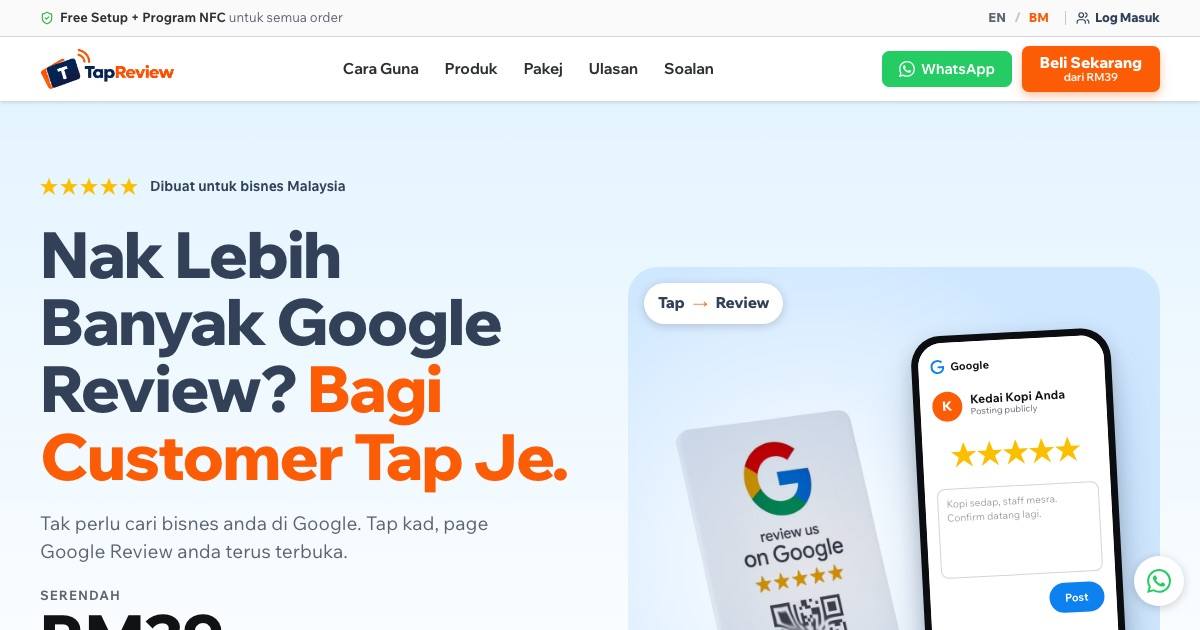
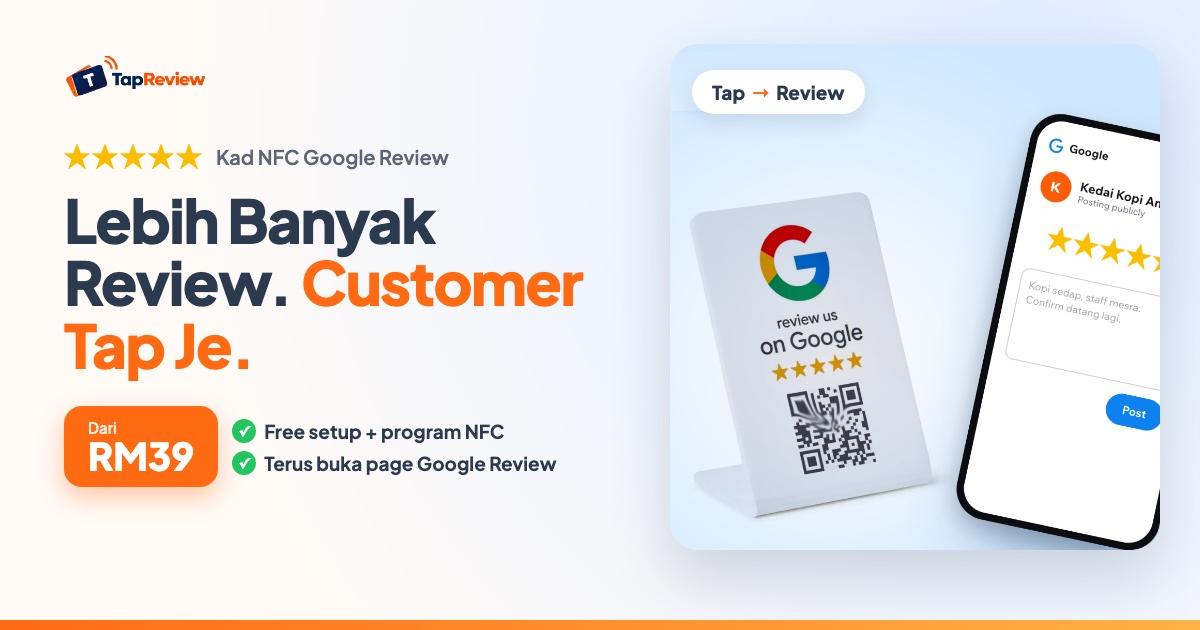
Redesign link preview image

diff --git a/index.html b/index.html
@@ -9,8 +9,8 @@
   <meta property="og:url" content="https://tapreview-f04.pages.dev/">
   <meta property="og:title" content="TapReview – Nak Lebih Banyak Google Review? Bagi Customer Tap Je.">
   <meta property="og:description" content="Kad NFC yang buka page Google Review bisnes anda terus. Dari RM39, free setup + program NFC.">
-  <meta property="og:image" content="https://tapreview-f04.pages.dev/og-image.jpg">
-  <meta property="og:image:secure_url" content="https://tapreview-f04.pages.dev/og-image.jpg">
+  <meta property="og:image" content="https://tapreview-f04.pages.dev/og-image.jpg?v=2">
+  <meta property="og:image:secure_url" content="https://tapreview-f04.pages.dev/og-image.jpg?v=2">
   <meta property="og:image:type" content="image/jpeg">
   <meta property="og:image:width" content="1200">
   <meta property="og:image:height" content="630">
@@ -19,7 +19,7 @@
   <meta name="twitter:card" content="summary_large_image">
   <meta name="twitter:title" content="TapReview – Nak Lebih Banyak Google Review? Bagi Customer Tap Je.">
   <meta name="twitter:description" content="Kad NFC yang buka page Google Review bisnes anda terus. Dari RM39.">
-  <meta name="twitter:image" content="https://tapreview-f04.pages.dev/og-image.jpg">
+  <meta name="twitter:image" content="https://tapreview-f04.pages.dev/og-image.jpg?v=2">
   <style>
     * { margin: 0; padding: 0; box-sizing: border-box; }
     body { background: #faf9f5; display: flex; align-items: center; justify-content: center; min-height: 100vh; font-family: -apple-system, BlinkMacSystemFont, sans-serif; }

diff --git a/tapreview.html b/tapreview.html
@@ -9,8 +9,8 @@
   <meta property="og:url" content="https://tapreview-f04.pages.dev/">
   <meta property="og:title" content="TapReview – Nak Lebih Banyak Google Review? Bagi Customer Tap Je.">
   <meta property="og:description" content="Kad NFC yang buka page Google Review bisnes anda terus. Dari RM39, free setup + program NFC.">
-  <meta property="og:image" content="https://tapreview-f04.pages.dev/og-image.jpg">
-  <meta property="og:image:secure_url" content="https://tapreview-f04.pages.dev/og-image.jpg">
+  <meta property="og:image" content="https://tapreview-f04.pages.dev/og-image.jpg?v=2">
+  <meta property="og:image:secure_url" content="https://tapreview-f04.pages.dev/og-image.jpg?v=2">
   <meta property="og:image:type" content="image/jpeg">
   <meta property="og:image:width" content="1200">
   <meta property="og:image:height" content="630">
@@ -19,7 +19,7 @@
   <meta name="twitter:card" content="summary_large_image">
   <meta name="twitter:title" content="TapReview – Nak Lebih Banyak Google Review? Bagi Customer Tap Je.">
   <meta name="twitter:description" content="Kad NFC yang buka page Google Review bisnes anda terus. Dari RM39.">
-  <meta name="twitter:image" content="https://tapreview-f04.pages.dev/og-image.jpg">
+  <meta name="twitter:image" content="https://tapreview-f04.pages.dev/og-image.jpg?v=2">
   <style>
     * { margin: 0; padding: 0; box-sizing: border-box; }
     body { background: #faf9f5; display: flex; align-items: center; justify-content: center; min-height: 100vh; font-family: -apple-system, BlinkMacSystemFont, sans-serif; }
